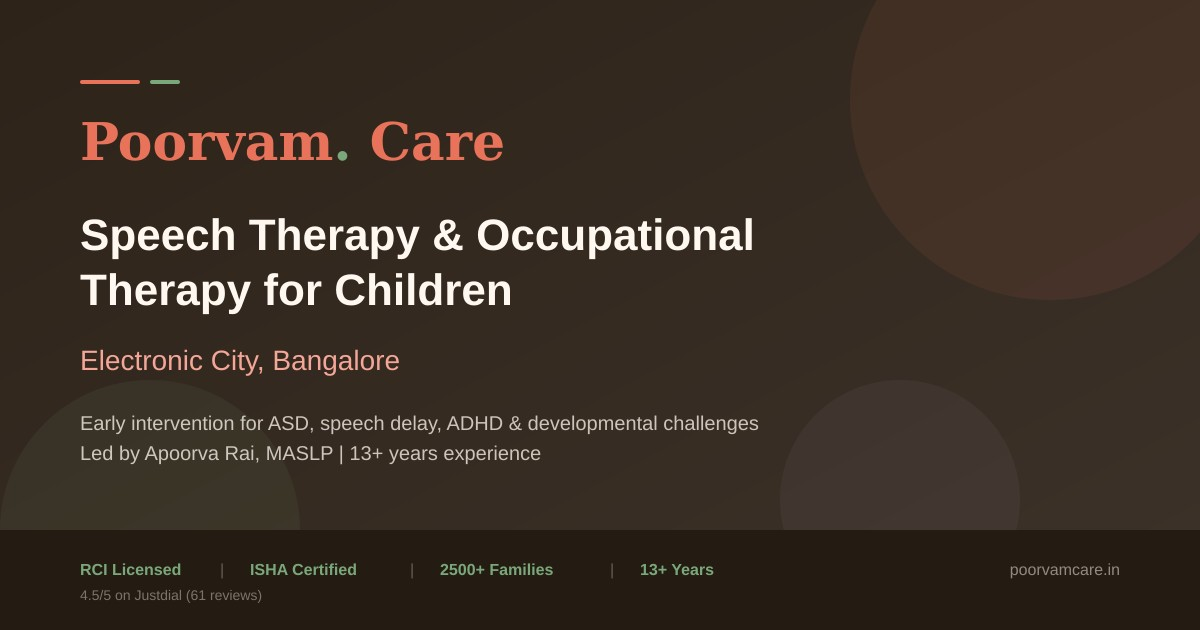
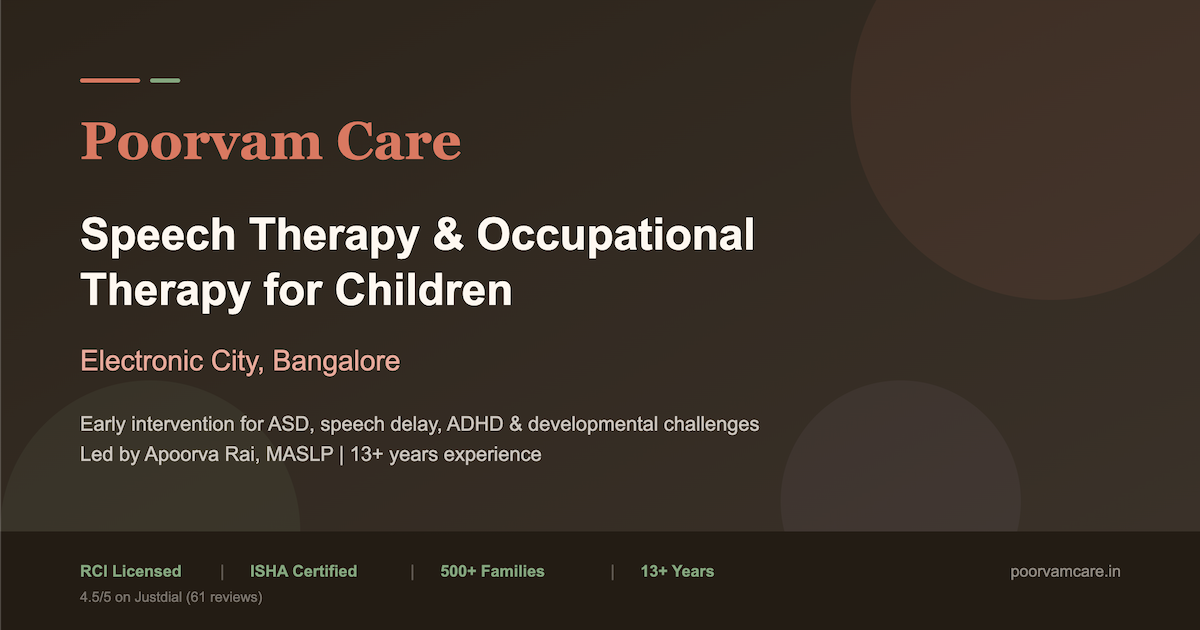
Update family count references across multiple components to reflect current statistics. Adjusted text in index.html, structured-data.tsx, footer.tsx, and about.tsx to indicate service to 500+ families instead of 2500+. Updated OG image and SVG to maintain consistency in branding.

diff --git a/client/src/pages/about.tsx b/client/src/pages/about.tsx
@@ -54,7 +54,7 @@ export default function AboutPage() {
     <>
       <SeoHead
         title="About Poorvam Care - 13+ Years of Child Therapy in Electronic City, Bangalore"
-        description="Learn about Poorvam Care's 13+ year journey serving 2500+ families in Electronic City, Bangalore. RCI registered, ISHA certified team. Child therapy, hearing care & enrichment."
+        description="Learn about Poorvam Care's 13+ year journey serving 500+ families in Electronic City, Bangalore. RCI registered, ISHA certified team. Child therapy, hearing care & enrichment."
         canonical="https://poorvamcare.in/about"
       />
       <StructuredData data={createBreadcrumbSchema([
@@ -78,7 +78,7 @@ export default function AboutPage() {
               <span className="text-coral">Quality Care</span>
             </h1>
             <p className="text-lg text-warm-gray-200 font-body leading-relaxed">
-              For over 13 years, Poorvam Care has been a trusted partner for families in Bangalore. What started as a small therapy center has grown into a comprehensive care organization serving 2500+ families across three specialized areas.
+              For over 13 years, Poorvam Care has been a trusted partner for families in Bangalore. What started as a small therapy center has grown into a comprehensive care organization serving 500+ families across three specialized areas.
             </p>
           </div>
         </div>
@@ -109,7 +109,7 @@ export default function AboutPage() {
                   <div className="text-sm text-brown-mid font-body">Years of Service</div>
                 </div>
                 <div className="text-center">
-                  <div className="text-4xl font-heading font-bold text-sage">2500+</div>
+                  <div className="text-4xl font-heading font-bold text-sage">500+</div>
                   <div className="text-sm text-brown-mid font-body">Families Served</div>
                 </div>
                 <div className="text-center">

diff --git a/client/src/components/structured-data.tsx b/client/src/components/structured-data.tsx
@@ -16,7 +16,7 @@ export const organizationSchema = {
   "@type": "MedicalBusiness",
   "name": "Poorvam Care",
   "alternateName": ["Poorvam Therapy Center", "Poorvam Child Development Center", "Poorvam Hearing Center"],
-  "description": "Best child development therapy, speech therapy, occupational therapy, hearing care, and enrichment programs in Electronic City, Bangalore. RCI registered, ISHA certified. Serving 2500+ families.",
+  "description": "Best child development therapy, speech therapy, occupational therapy, hearing care, and enrichment programs in Electronic City, Bangalore. RCI registered, ISHA certified. Serving 500+ families.",
   "url": "https://poorvamcare.in",
   "logo": "https://poorvam-staff.s3.us-east-1.amazonaws.com/Poorvam-Logo+(1).jpg",
   "image": "https://poorvam-staff.s3.us-east-1.amazonaws.com/Poorvam-Logo+(1).jpg",

diff --git a/client/index.html b/client/index.html
@@ -195,7 +195,7 @@
         <h3>What is the cost of speech therapy in Bangalore?</h3>
         <p>Session fees vary based on the type of therapy and frequency. We offer flexible packages to suit different family budgets. Contact us for a free initial consultation where we can discuss your child's needs and recommend an appropriate therapy plan with transparent pricing.</p>
 
-        <p><a href="https://poorvamcare.in">Visit Poorvam Care</a> — Trusted by 2500+ families in Bangalore.</p>
+        <p><a href="https://poorvamcare.in">Visit Poorvam Care</a> — Trusted by 500+ families in Bangalore.</p>
       </div>
     </noscript>
   </body>

diff --git a/client/src/components/footer.tsx b/client/src/components/footer.tsx
@@ -44,7 +44,7 @@ export default function Footer() {
               </span>
             </div>
             <p className="text-brown-light font-body text-sm leading-relaxed mb-6">
-              Expert therapy, hearing care, and enrichment programs — trusted by 2500+ families in Bangalore.
+              Expert therapy, hearing care, and enrichment programs — trusted by 500+ families in Bangalore.
             </p>
             <div className="flex gap-3">
               {socialLinks.map((social) => {
